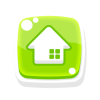
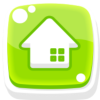
change game and over screen

diff --git a/core/src/main/java/sut/game01/core/OverScreen.java b/core/src/main/java/sut/game01/core/OverScreen.java
@@ -24,6 +24,10 @@ public class OverScreen extends Screen  {
   //private final GameScreen gameScreen;
   private final ImageLayer bg;
   private final ImageLayer backButton;
+  private final ImageLayer window;
+  private final ImageLayer reButton;
+  private final ImageLayer levelButton;
+  private final ImageLayer homeButton;
 
   private Root root;
 
@@ -33,8 +37,48 @@ public class OverScreen extends Screen  {
 
 
 
-    Image bgImage = assets().getImage("images/pausePage.png");
+    Image bgImage = assets().getImage("images/bg.png");
     this.bg = graphics().createImageLayer(bgImage);
[1 lines of base64/hex data omitted]
+    Image windowImage = assets().getImage("images/window2.png");
+    this.window = graphics().createImageLayer(windowImage);
+    window.setTranslation(110, 20);
+
+    Image reButtonImage = assets().getImage("images/reButton2.png");
+    this.reButton = graphics().createImageLayer(reButtonImage);
+    reButton.setTranslation(140, 170);
+
+    reButton.addListener(new Mouse.LayerAdapter(){
+      @Override
+      public void onMouseUp(Mouse.ButtonEvent event){
+        ss.remove(ss.top());
+
+         }
+    });
+
+    Image levelButtonImage = assets().getImage("images/levelButton.png");
+    this.levelButton = graphics().createImageLayer(levelButtonImage);
+    levelButton.setTranslation(255, 170);
+
+    levelButton.addListener(new Mouse.LayerAdapter(){
+      @Override
+      public void onMouseUp(Mouse.ButtonEvent event){
+        //ss.remove(ss.top());
+
+         }
+    });
+
+    Image homeButtonImage = assets().getImage("images/homeButton.png");
+    this.homeButton = graphics().createImageLayer(homeButtonImage);
+    homeButton.setTranslation(360, 170);
+
+    homeButton.addListener(new Mouse.LayerAdapter(){
+      @Override
+      public void onMouseUp(Mouse.ButtonEvent event){
+        //ss.remove(ss.top());
+
+         }
+    });
     
[1 lines of base64/hex data omitted]
     Image backImage = assets().getImage("images/back.png");
@@ -68,7 +112,11 @@ public class OverScreen extends Screen  {
   public void wasShown (){
     super.wasShown();
     this.layer.add(bg);
-    this.layer.add(backButton);
+    this.layer.add(window);
+    this.layer.add(reButton);
+    this.layer.add(levelButton);
+    this.layer.add(homeButton);
+    //this.layer.add(backButton);
   
   }
 }

diff --git a/core/src/main/java/sut/game01/core/GameScreen.java b/core/src/main/java/sut/game01/core/GameScreen.java
@@ -26,6 +26,8 @@ public class GameScreen extends Screen  {
   private final ImageLayer backButton;
   private final ImageLayer settingButton;
   private final ImageLayer pauseButton;
+  private final ImageLayer overButton;
+
   private Root root;
 
   public GameScreen(final ScreenStack ss){
@@ -34,7 +36,7 @@ public class GameScreen extends Screen  {
     this.overScreen =new OverScreen(ss);
 
 
-    Image bgImage = assets().getImage("images/gamePage.png");
+    Image bgImage = assets().getImage("images/bg.png");
     this.bg = graphics().createImageLayer(bgImage);
     
[1 lines of base64/hex data omitted]
@@ -62,16 +64,26 @@ public class GameScreen extends Screen  {
[1 lines of base64/hex data omitted]
     Image pauseImage = assets().getImage("images/pauseButton.png");
     this.pauseButton = graphics().createImageLayer(pauseImage);
-    pauseButton.setTranslation(200, 10);
+    pauseButton.setTranslation(270, 0);
     
     pauseButton.addListener(new Mouse.LayerAdapter(){
+      @Override
+      public void onMouseUp(Mouse.ButtonEvent event){
+       // ss.push(overScreen); 
+      }
+    });
+
[1 lines of base64/hex data omitted]
+    Image overImage = assets().getImage("images/overButton.png");
+    this.overButton = graphics().createImageLayer(overImage);
+    overButton.setTranslation(40, 390);
+    
+    overButton.addListener(new Mouse.LayerAdapter(){
       @Override
       public void onMouseUp(Mouse.ButtonEvent event){
         ss.push(overScreen); 
       }
     });
-
-
 
   }
  //=============================================================
@@ -79,9 +91,10 @@ public class GameScreen extends Screen  {
   public void wasShown (){
     super.wasShown();
     this.layer.add(bg);
-    this.layer.add(backButton);
-    this.layer.add(settingButton);
+    //this.layer.add(backButton);
+    //this.layer.add(settingButton);
     this.layer.add(pauseButton);
+    this.layer.add(overButton);
   
   }
 }
